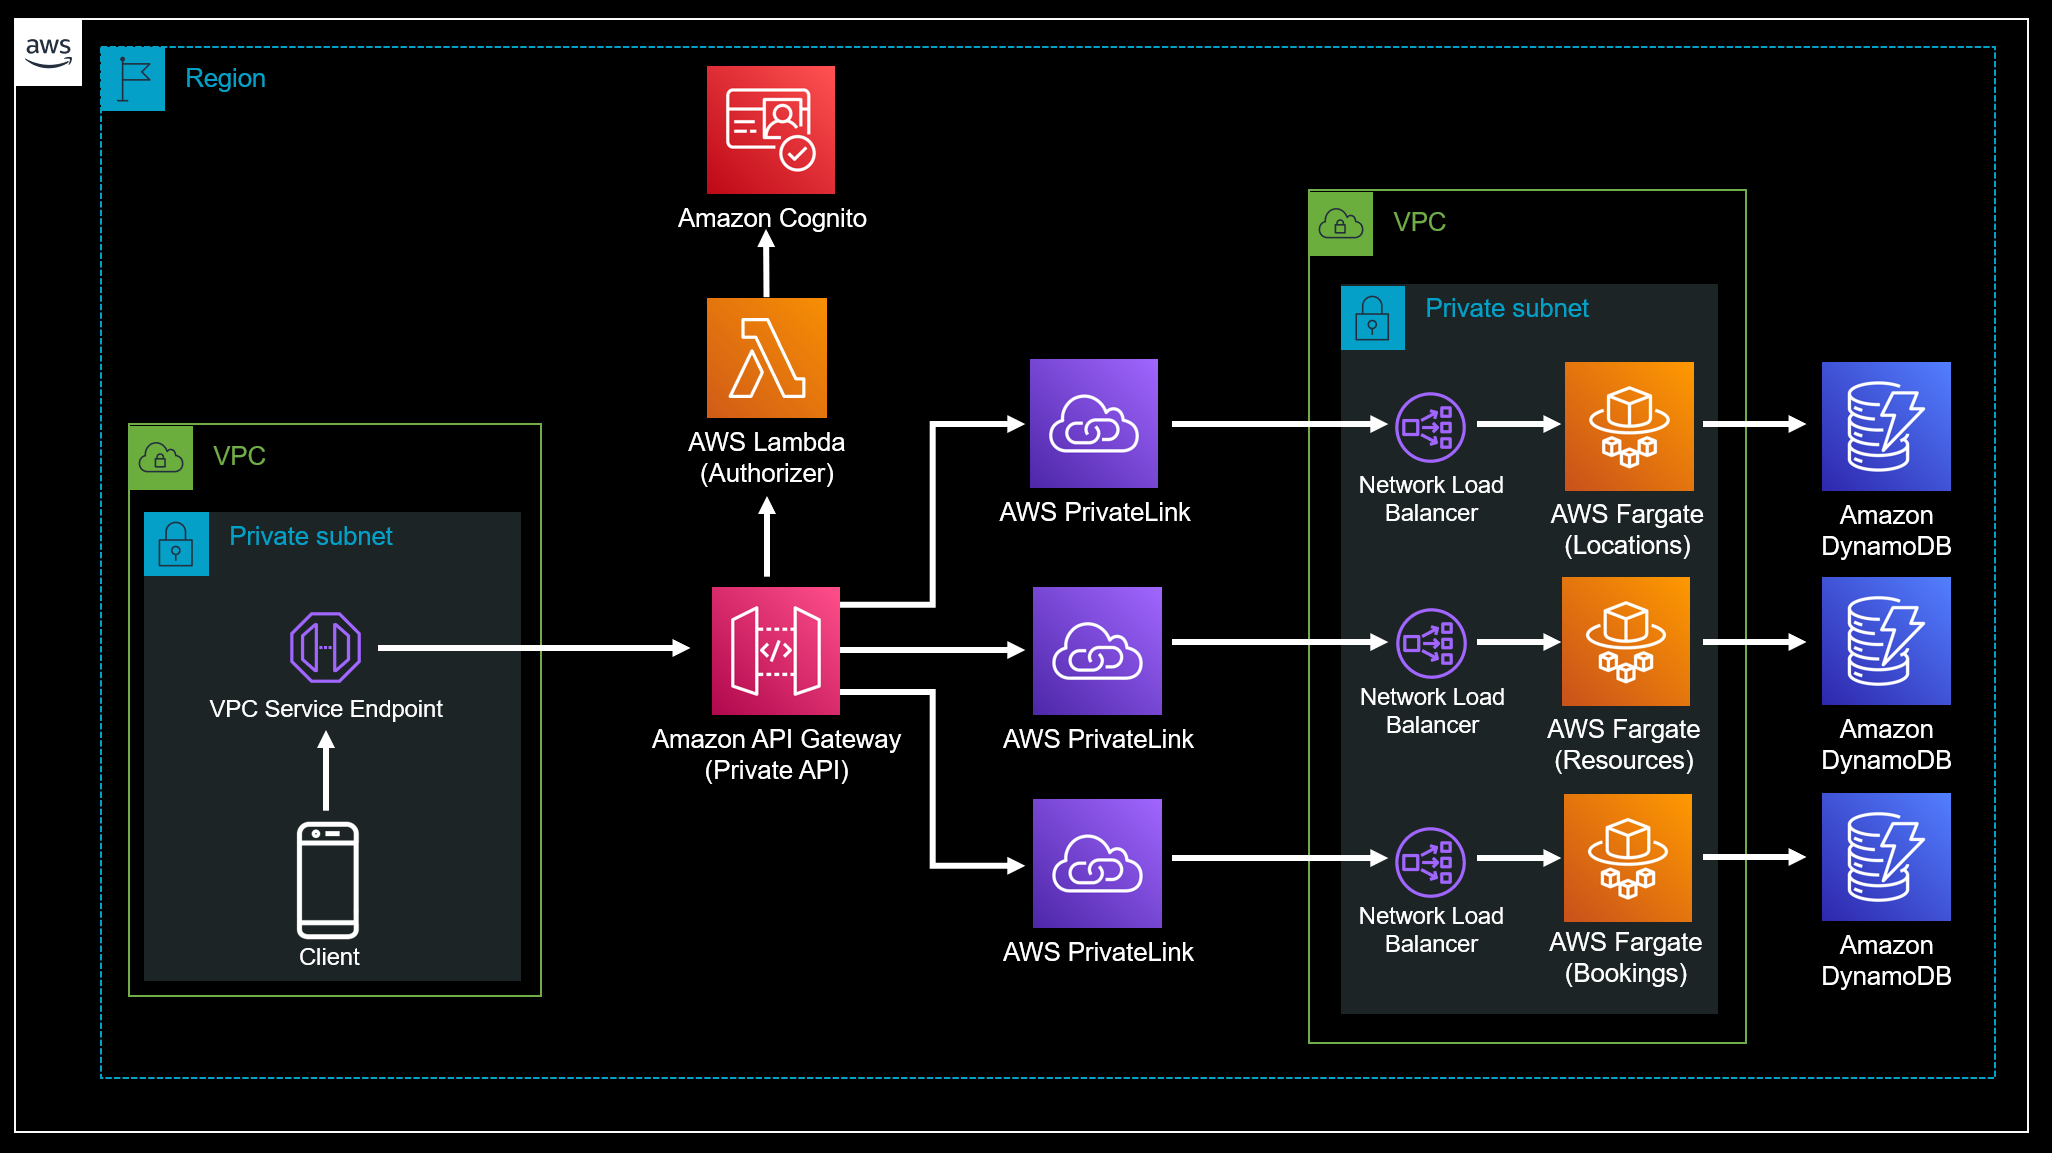
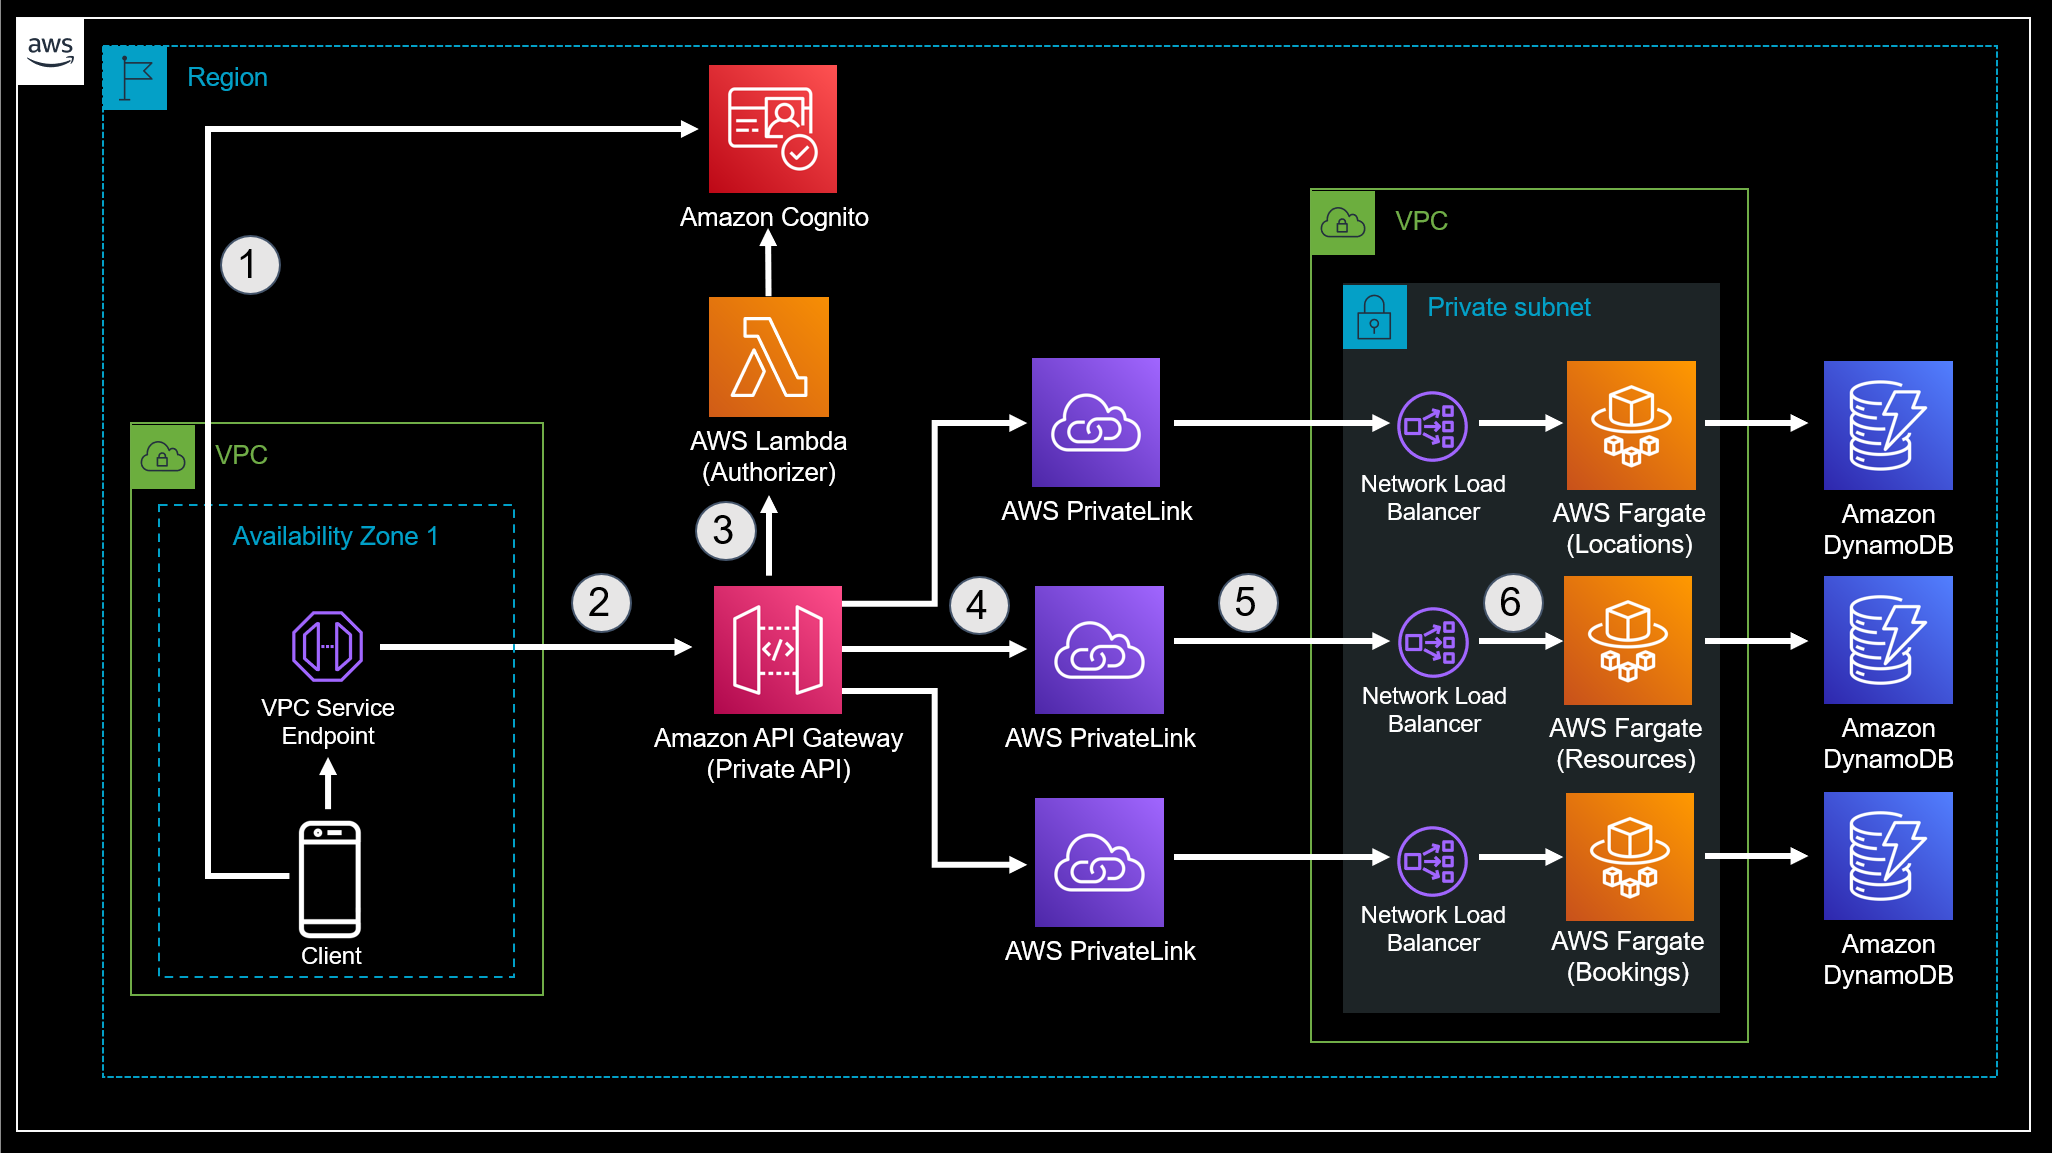
updated readme

diff --git a/fargate-private-api/README.md b/fargate-private-api/README.md
@@ -1,14 +1,6 @@
 # fargat-private-api
 
-These private API examples, using Amazon API Gateway REST APIs, demonstrate end-to-end implementations of a simple application using a serverless approach that includes CI/CD pipelines, automated unit and integration testing, and workload observability. The patterns here will benefit beginners as well as seasoned developers looking to improve their applications by automating routine tasks.
-
-There are various blog posts and code examples for serverless APIs available, however, most of them do not go beyond the first steps of implementing business logic and access controls. These example dive deeper including: 
-
- - CI/CD pipelines containing automated unit and integration testing
- - manual approval steps before updates go live
- - automated alerts and dashboards for workload observability. 
- - API access logging as part of SAM templates
- - business specific metrics
+These private API examples, using Amazon API Gateway REST APIs, utilizes private API, and private integration. These examples, using Amazon API Gateway REST APIs, demonstrate end-to-end implementations of a simple application using a serverless approach that includes CI/CD pipelines, automated unit and integration testing, and workload observability. The patterns here will benefit beginners as well as seasoned developers looking to improve their applications by automating routine tasks.
 
 Examples are based on the [fargate-rest-api](https://github.com/aws-samples/serverless-samples/tree/main/fargate-rest-api). For private APIs the following additional considerations are implemented, compare to their regional counterparts:
 
@@ -18,24 +10,31 @@ Examples are based on the [fargate-rest-api](https://github.com/aws-samples/serv
  - Resource policy behavior when used with Lambda authorizer [Policy Evaluation Outcome](https://docs.aws.amazon.com/apigateway/latest/developerguide/apigateway-authorization-flow.html#apigateway-resource-policies-iam-policies-interaction)
 
 
+There are various blog posts and code examples for serverless APIs available, however, most of them do not go beyond the first steps of implementing business logic and access controls. These example dive deeper including: 
+
+ - CI/CD pipelines containing automated unit and integration testing
+ - manual approval steps before updates go live
+ - automated alerts and dashboards for workload observability. 
+ - API access logging as part of SAM templates
+ - business specific metrics
 
 ## Architecture
 
 ![Architecture diagram](./assets/Architecture.png)
 
-Private API endpoint can only be accessed from your VPC by using an interface VPC endpoint. When the API is configured as private, the public networks are not made available to route to your API. Instead, your API can only be accessed using the interface endpoints that you have configured.
+1. Every new client is first required to use their credentials to authenticate with Amazon Cognito and retrieve an identity token.
 
-The API uses Amazon API Gateway as a front door. Every new client is first required to use their credentials to authenticate with Amazon Cognito and retrieve an identity token. They must then pass this as a bearer token in the Authorization header with each subsequent request. The Lambda Authorizer inspects this token and generates an IAM policy that is returned back to API Gateway. It's important to keep in mind, when Lambda Authorizer and resource policy are used together, they are evaluated together. If the Lambda Authorizer generated IAM policy neither allows nor denies, along with API Gateway resource policy allow, the call will be allowed. For non-private, regional APIs, without resource policy, same call will be denied. That is why API Gateway resource policy uses explicit deny for this sample. 
+2. The API uses Amazon API Gateway as a front door. Client must then pass the identity token as a bearer token in the Authorization header with each subsequent request. Private API endpoint can only be accessed from your VPC by using an interface VPC endpoint. When the API is configured as private, the public networks are not made available to route to your API. Instead, your API can only be accessed using the interface endpoints that you have configured. In addition, you must have a resource policy attached to your private API for it to be accessed.
+
+3. The Lambda Authorizer inspects this token and generates an IAM policy that is returned back to API Gateway. It's important to keep in mind, when Lambda Authorizer and resource policy are used together, they are evaluated together. If the Lambda Authorizer generated IAM policy neither allows nor denies, along with API Gateway resource policy allow, the call will be allowed. For non-private, regional APIs, without any resource policy, same call will be denied. That is why API Gateway resource policy uses explicit deny for this sample.
 
 ![Architecture diagram](./assets/policyevaluation.png)
 
 The content of the IAM policy generated by the Lambda Authorizer depends on the user role and identity. All users have read access to the Locations and Resources associated with Locations. They also have read/write access their own Bookings. Administrative users have read/write access to all Locations, Resources, and Bookings. User status (regular vs. administrative) is defined by their membership in the API administrators group in Amazon Cognito User Pool. 
 
-After authentication and authorization is complete, API Gateway forwards requests to Network Load Balancers (through a VPC Link) which distribute the requests to the ECS tasks, where the business logic resides. Data is persisted in DynamoDB tables, one table per API resource. 
-
-
 ![API](./assets/API.png)
 
+4. This API utilizes private integration for the backend, using AWS PrivateLink. AWS PrivateLink allows access to AWS services and services hosted by other AWS customers, while maintaining network traffic within the AWS network. After authentication and authorization is complete, API Gateway forwards requests to Network Load Balancers (through the Private Link) which distribute the requests to the ECS tasks, where the business logic resides. Data is persisted in DynamoDB tables, one table per API resource. 
 
 ## Components created
 
